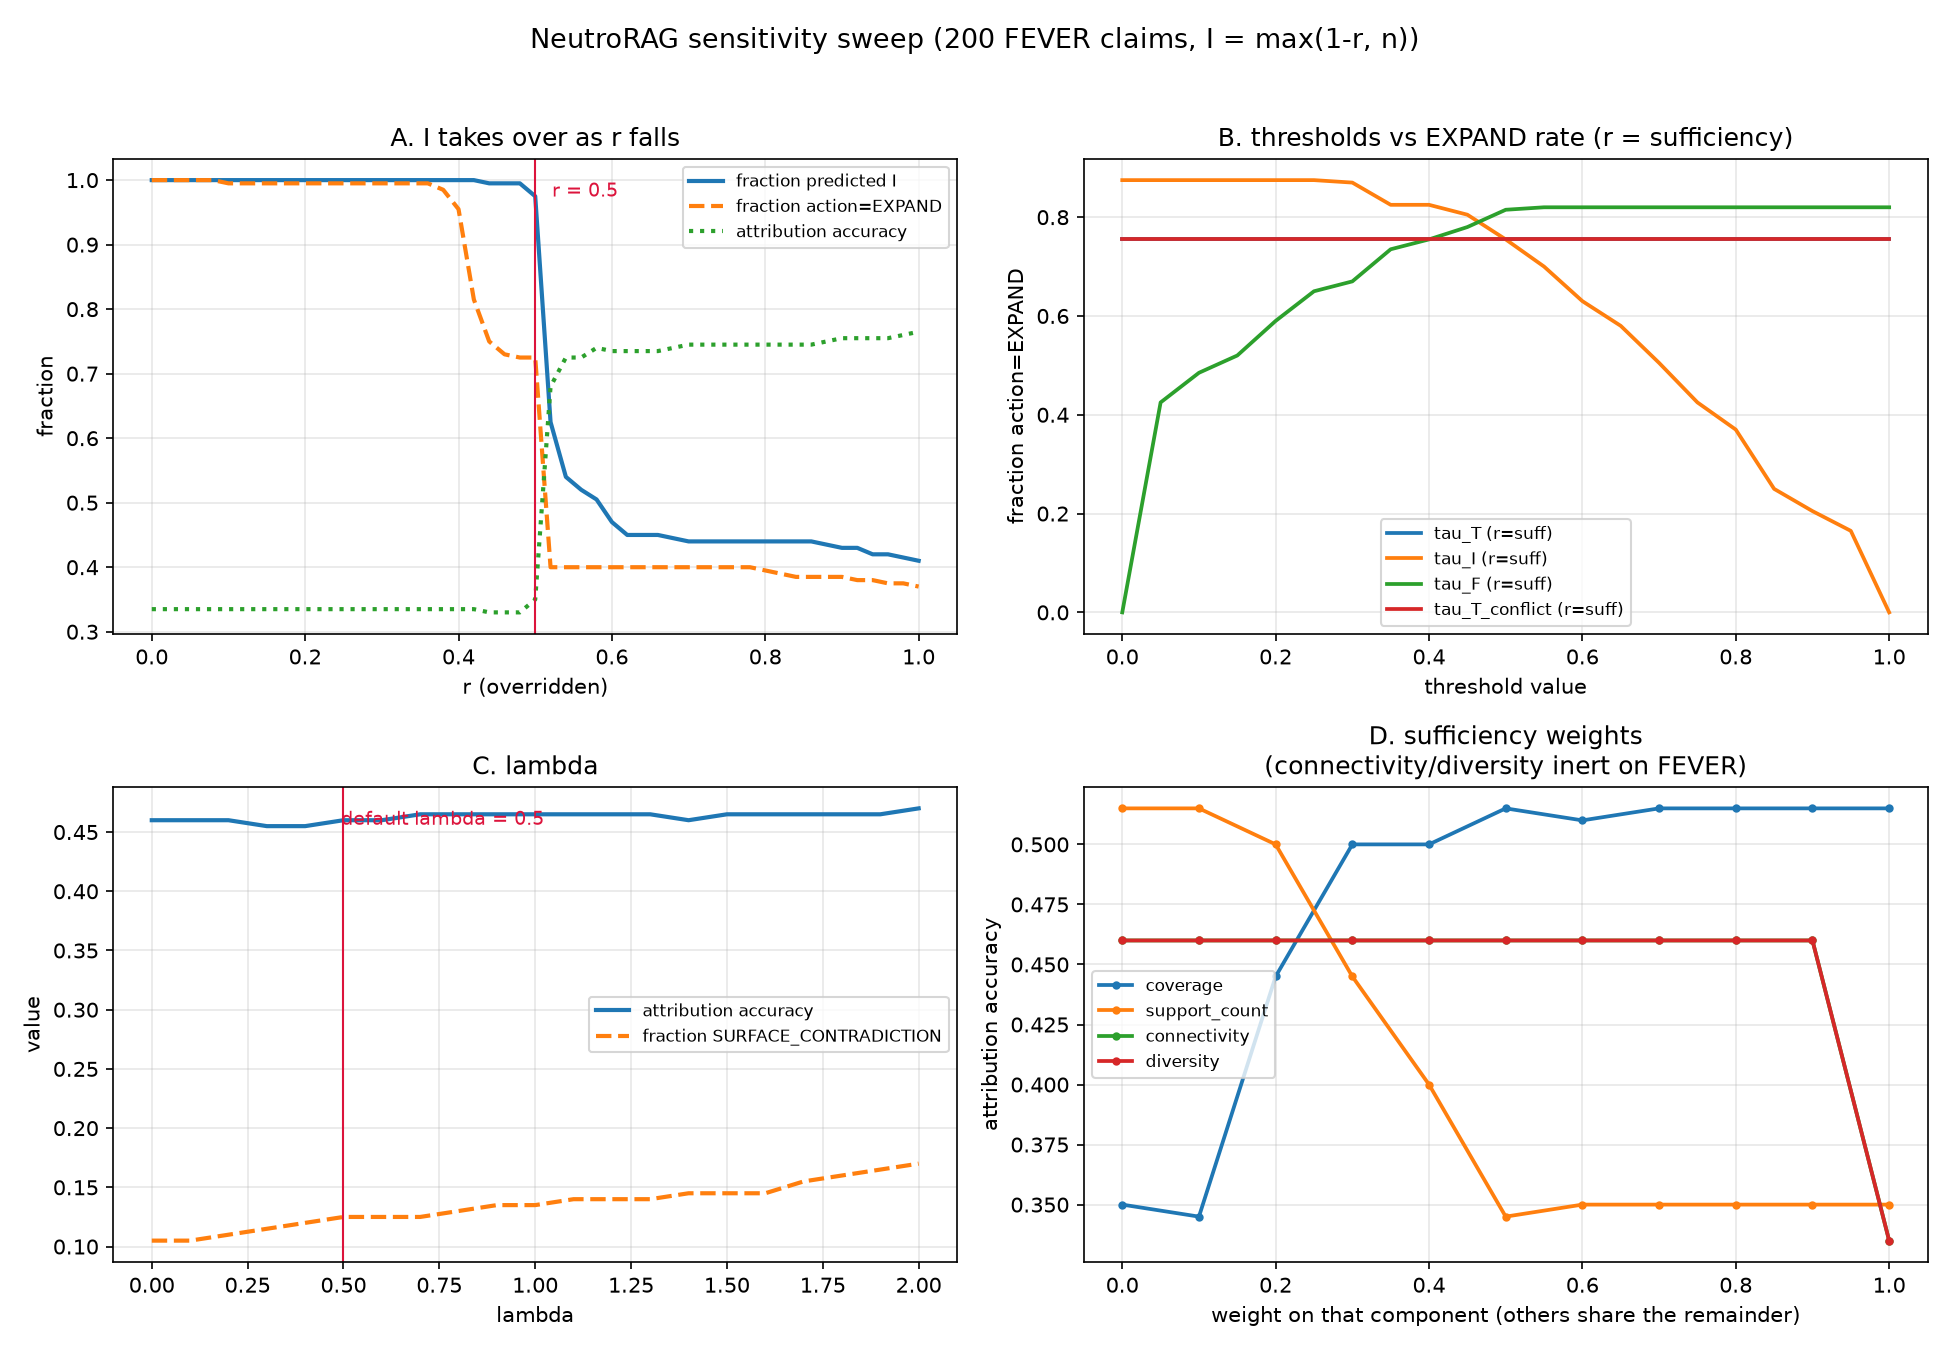
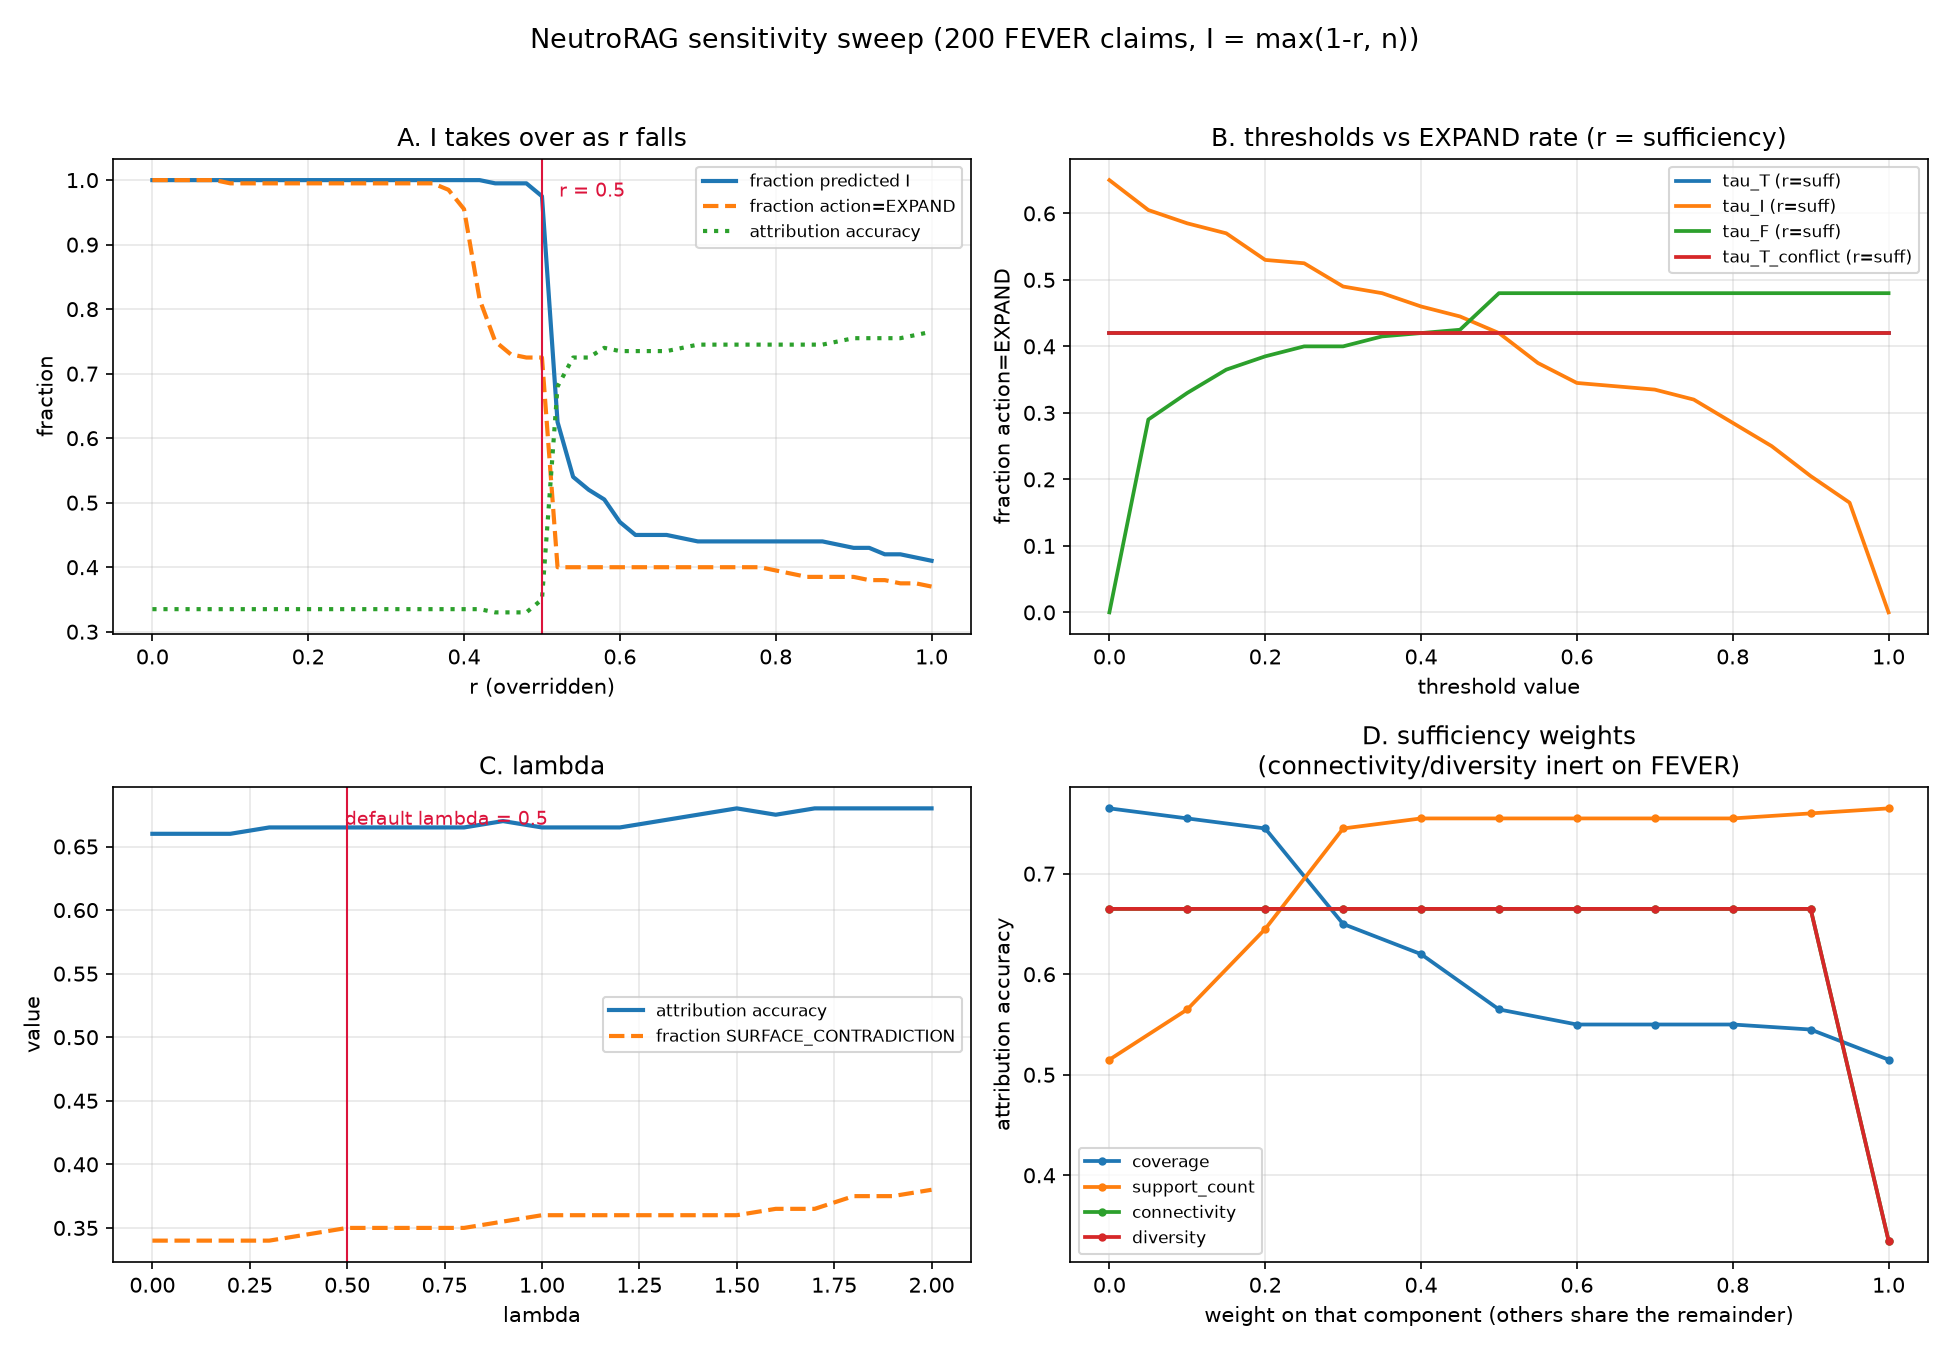
Correct the pre-calibration figures the r-ablation prose still asserted
Three figures in the r-ablation and sensitivity-sweep sections described the
corpus as it was before the Decision-2 targets were committed, and one of them
inverted a conclusion:

- "FEVER's median r of 0.417 puts the whole corpus inside that regime" is now
  false. Median r is 0.750, range [0.500, 1.000], and 0/200 rows fall at
  r <= 0.42. The F12 cliff is therefore NOT the explanation for the current
  FEVER result.
- "support_target = 3 ... pinned at 1/3" and the bound r <= 0.667 describe the
  uncalibrated targets; support_count now saturates on every row.
- "I-recall 0.970; F-recall collapses 0.853 -> 0.162" was off by a wide margin.
  Actual: F-recall 0.853 -> 0.662, T-recall 0.631 -> 0.554, I-recall flat at
  0.776 with I-precision falling to 0.500.

Record the mechanism behind the -0.0900 gap, which is unusually clean: the two
systems differ on exactly 20/200 rows; on all 20 NeutroRAG predicts I (not one
is a T<->F disagreement); the baseline is right on 19; and 17 of the 20 carry
r <= 0.58. Every pinned r in the observed range beats the computed one
(r=1.0 -> 0.765, r=0.8 -> 0.745, r=0.6 -> 0.735 vs computed 0.665), so the cost
comes from r's spread rather than its level -- the low-r tail gets an I floor
of (1-r) large enough to overwrite a correct NLI judgement.

Also: regenerate results/r_ablation.md so its commit stamp matches its content,
and remove results/fever_200_metrics.{md,csv}, superseded by the _current and
_gateA pair.

diff --git a/RESULTS.md b/RESULTS.md
@@ -93,13 +93,23 @@ Same data, same replayed NLI outputs, `I` held at `max(1-r, n)`; only `r` varies
 **p = 0.0000**. Large and highly significant.
 
 **This measures memo F9, not the sufficiency design.** FEVER gives one gold
-passage per claim: 185/200 rows carry exactly one, so with `support_target = 3`
-the `support_count` component is pinned at 1/3, and with no graph and no
-provenance `connectivity` and `diversity` are unavailable. `r` is therefore
-bounded above by `(coverage + 0.333)/2 ≤ 0.667` on those rows **structurally**.
-Median `r` = 0.417; 143/200 rows land at `r ≤ 0.5`, where `I = max(1-r, n) ≥ 0.5`
-by construction. Condition (b) consequently predicts I nearly everywhere
-(I-recall 0.970; F-recall collapses 0.853 → 0.162). No parameter was retuned.
+passage per claim: 185/200 rows carry exactly one, and with no graph and no
+provenance `connectivity` and `diversity` are unavailable. Only `coverage` can
+really vary, so `r` is a near-proxy for claim/passage token overlap on this
+corpus rather than a measure of retrieval depth.
+
+Under the Decision-2 target (`support_target = 1`, FEVER's own p75 depth)
+`support_count` saturates on every row and `r` spans [0.500, 1.000] with a median
+of **0.750** and 26 distinct values; **17/200** rows land at `r ≤ 0.5`, the memo
+F12 regime where `I = max(1-r, n) ≥ 0.5` automatically. Condition (b) loses on
+precisely those low-`r` rows: F-recall falls 0.853 → **0.662** and T-recall
+0.631 → **0.554**, while I-recall is flat at 0.776 and I-*precision* falls to
+0.500 — it is predicting I more often and being wrong when it does. No parameter
+was retuned; the targets were committed before this run.
+
+*(These figures were 0.417 and 143/200 before the Decision-2 calibration. The
+earlier reading — that the whole corpus sat inside the F12 regime — no longer
+holds, and the current explanation is the low-`r` tail, not the corpus median.)*
 
 ## Sensitivity sweep (memo F12)
 
@@ -118,12 +128,42 @@ under **both** formulas. Empirically the cliff is sharp:
 | 0.52 | 62.5% | 40.0% | 0.680 |
 | 1.00 | 41.0% | 37.0% | 0.765 |
 
-I is the argmax for *every* claim at any `r ≤ 0.42`. FEVER's median `r` of 0.417
-puts the whole corpus inside that regime.
+I is the argmax for *every* claim at any `r ≤ 0.42`, and for at least half of
+them at any `r ≤ 0.58`.
+
+**The median-`r` figure here moved with the Decision-2 calibration and the
+conclusion inverted.** Before calibration FEVER's median `r` was 0.417, which put
+the whole corpus inside the degenerate regime. Under the committed targets the
+median is **0.750**, the range is [0.500, 1.000], and **0 of 200** rows fall at
+`r ≤ 0.42`. The corpus is no longer inside that regime, so the F12 cliff is not
+the explanation for the current FEVER result — the mechanism below is.
+
+**Why the computed `r` loses to a constant one.** The sweep pins `r`, so its
+rows are directly comparable to the live system, which computes it. Every pinned
+value in the observed range beats the computed one: `r = 1.0` scores 0.765,
+`r = 0.8` scores 0.745, `r = 0.6` scores 0.735 — while the computed, *varying*
+`r` scores **0.665**. It is therefore not the level of `r` that costs accuracy
+but its spread. The 20 rows carrying the lowest `r` get an `I` floor of `1-r`
+large enough to win the argmax, and the live system pays for them while any
+constant `r ≥ 0.6` does not.
+
+That is the whole of the −0.0900 gap, and it is unusually clean:
+
+- The two systems differ on exactly **20 of 200** rows.
+- On **all 20**, NeutroRAG predicts **`I`** — not one is a T↔F disagreement.
+- The baseline is correct on **19** of those 20 (McNemar c=19, b=1).
+- **17 of the 20** are rows with `r ≤ 0.58`.
+
+So the layer's only effect on FEVER is to overwrite a correct, confident NLI
+judgement with "not enough info" on the rows where retrieval sufficiency scores
+low — and on FEVER, `r` scoring low is mostly an artefact of the corpus (one gold
+passage, constant relevance, no graph, no source labels) rather than a fact about
+the evidence. That is a measurement-validity problem for `r` on this corpus, and
+it is the same conclusion the r-ablation reached from the other direction.
 
 Other sweep observations, none acted on: accuracy is highest at `r = 1.0`
-(0.765) — `r` contributes nothing positive on FEVER, and the small edge over raw
-`argmax(e,n,c)` (0.755) comes from `λ·disagree` in F. `lambda` is nearly flat for
+(0.765), and the small edge there over raw `argmax(e,n,c)` (0.755) comes from
+`λ·disagree` in F. `lambda` is nearly flat for
 attribution (0.455–0.470 over 0–2) but monotonically raises the
 SURFACE_CONTRADICTION rate. `connectivity` and `diversity` weights are inert on
 FEVER; at weight 1.0 for either, every *available* component has zero weight and
@@ -208,10 +248,14 @@ are evidence that the scorer was applied outside its task definition.
 
 `support_count` and `diversity` **saturate at 1.0** on every instance (≥5
 passages, ≥3 domains, frozen target 3); `r` spans only 0.867–1.000 with 0/130
-below 0.5. FEVER pinned `r` low (median 0.417, 143/200 below 0.5); CONFLICTS
-pins it high. **Neither venue exercises `r` across its range**, which is a
-property of the components' targets, not of either dataset. Reported, not
-retuned.
+below 0.5. FEVER spans [0.500, 1.000] with a median of 0.750 and 17/200 rows at
+`r ≤ 0.5`; CONFLICTS pins it high. **Neither venue exercises `r` across its full
+range**, which is a property of the components' targets, not of either dataset.
+Reported, not retuned.
+
+*(Before the Decision-2 calibration FEVER's median was 0.417 with 143/200 below
+0.5, and the sentence above read "FEVER pinned `r` low". Calibrating the targets
+moved FEVER into the upper half of the range; it did not widen it.)*
 
 ## Decision 2: saturation targets, derived from depth alone
 

diff --git a/results/r_ablation.md b/results/r_ablation.md
@@ -2,7 +2,7 @@
 
 N = 200, `copenlu/fever_gold_evidence` validation, NLI outputs replayed from `fever_run_200_current.csv` (model not re-run).
 
-Generated by `python experiments/run_r_ablation.py` | commit `a79f5ae`
+Generated by `python experiments/run_r_ablation.py` | commit `ed8356c`
 
 Both r conditions use the current `I = max(1-r, n)`, so this isolates r with the formula held fixed.
 
@@ -57,3 +57,4 @@ Predictions differ on **18/200** rows. Exact McNemar (b = sufficiency only right
 | **T** | 42 | 23 | 0 | 65 | 0.646 |
 | **I** | 5 | 51 | 11 | 67 | 0.761 |
 | **F** | 0 | 10 | 58 | 68 | 0.853 |
+
